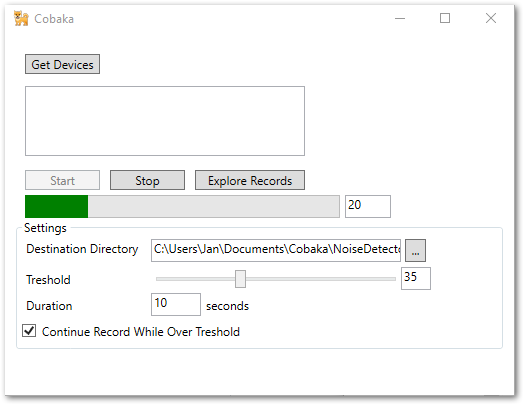
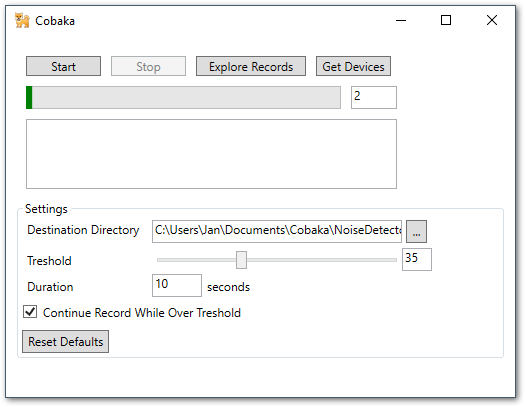
Updated docs

diff --git a/README.md b/README.md
@@ -9,3 +9,7 @@ Choose **Continue Record When Over Treshold** ceckbox to record a continuous fil
 The app is listening as soon it's started and will stop to listen when it is closed. Use Start/Stop for manual override.
 
 ![AppWindow](https://github.com/viper3400/Cobaka/blob/master/CobakaMainWindow.png)
+
+## Settings
+
+Settings are stored in "%LOCALAPPDATA%\Cobaka\NoiseDetectorConfig.json" whenever they are changed. Use "Reset Defaults" button to delete the settings file and reset to default values.
